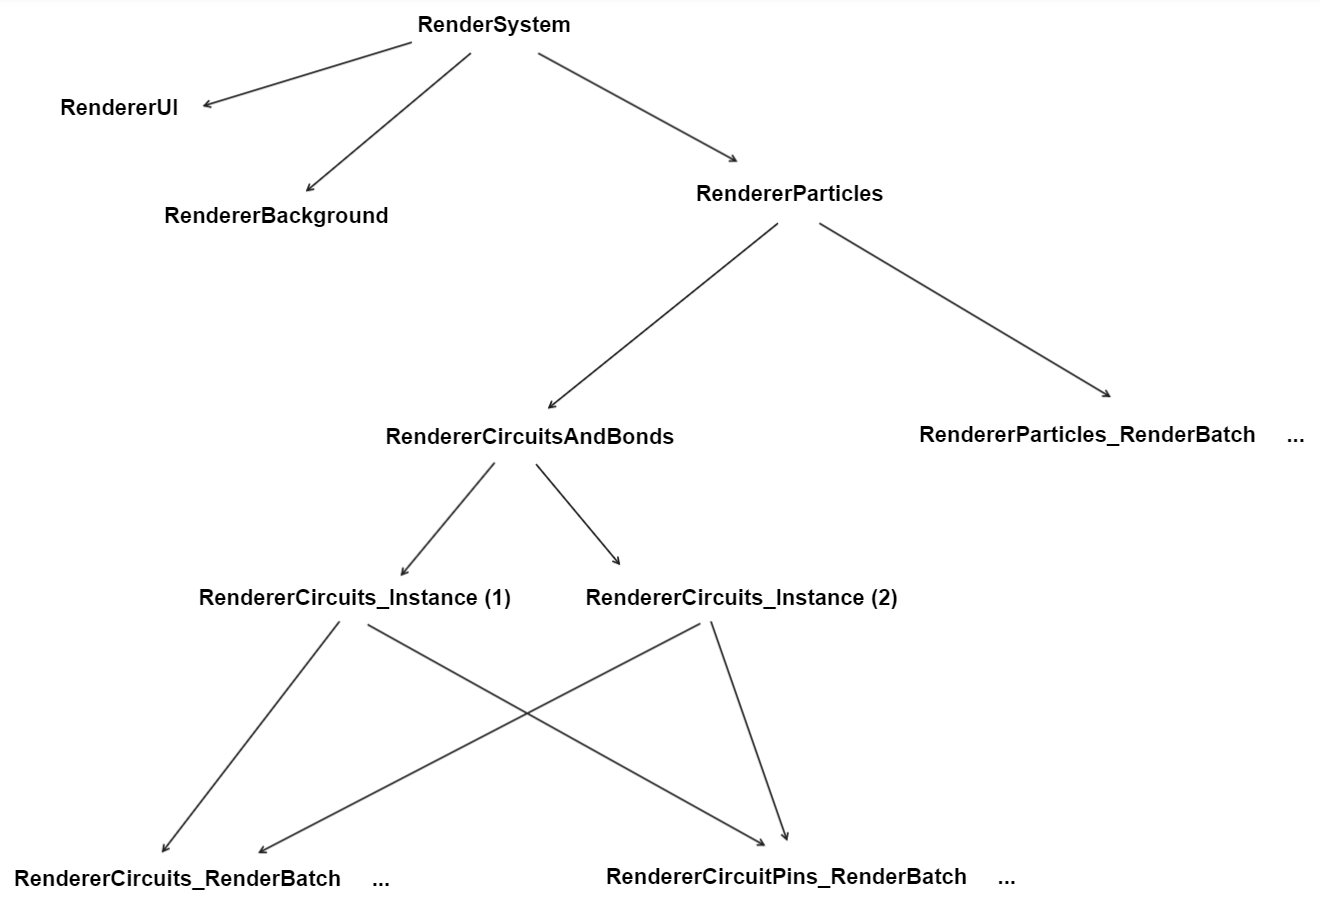
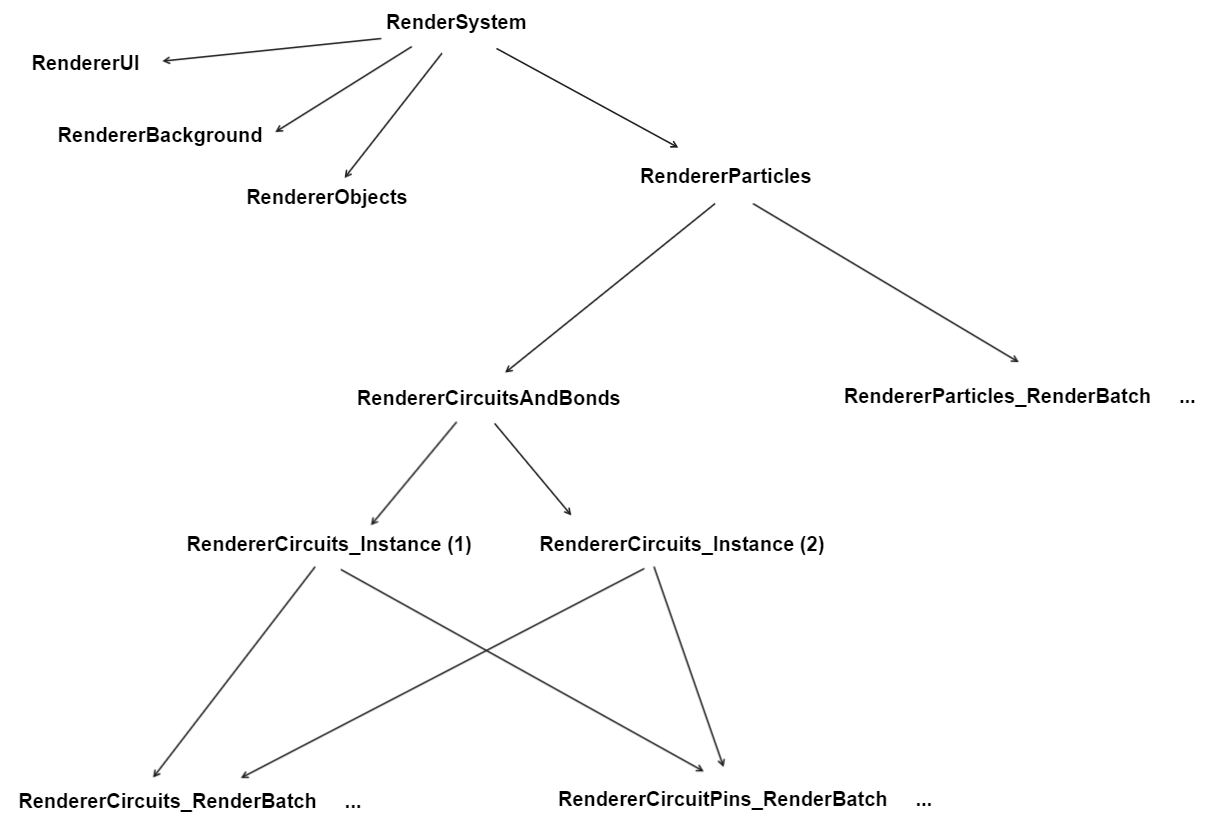
Added Model Reference and Render System pages about objects to documentation

diff --git a/AmoebotSim 2.0/Assets/Code/Simulator/Objects/IParticleObject.cs b/AmoebotSim 2.0/Assets/Code/Simulator/Objects/IParticleObject.cs
@@ -2,53 +2,58 @@ using System.Collections;
 using System.Collections.Generic;
 using UnityEngine;
 
-/// <summary>
-/// Represents an object in the particle system that can
-/// be detected and moved around by the particles.
-/// </summary>
-public interface IParticleObject
+namespace AS2.Sim
 {
+
     /// <summary>
-    /// The object's identifier. Can be unique to
-    /// distinguish all objects from each other or
-    /// specify different types or groups of objects.
+    /// Represents an object in the particle system that can
+    /// be detected and moved around by the particles.
     /// </summary>
-    int Identifier
+    public interface IParticleObject
     {
-        get;
+        /// <summary>
+        /// The object's identifier. Can be unique to
+        /// distinguish all objects from each other or
+        /// specify different types or groups of objects.
+        /// </summary>
+        int Identifier
+        {
+            get;
+        }
+
+        /// <summary>
+        /// Gives the object a new color. If multiple
+        /// particles set the same object's color, the one
+        /// set by the last simulated particle will be used.
+        /// </summary>
+        /// <param name="color">The new color of the object.</param>
+        public abstract void SetColor(Color color);
+
+        /// <summary>
+        /// Checks whether this object is currently the anchor.
+        /// <para>
+        /// Note that this information is already available in
+        /// the same round in which the object was made the
+        /// anchor (unlike, e.g., particle attributes). This
+        /// depends on the order in which the particles are
+        /// activated, which the particles can neither control
+        /// nor find out about.
+        /// </para>
+        /// </summary>
+        /// <returns><c>true</c> if and only if the object is
+        /// the system's anchor.</returns>
+        public abstract bool IsAnchor();
+
+        /// <summary>
+        /// Turns this object into the system's anchor.
+        /// </summary>
+        public abstract void MakeAnchor();
+
+        /// <summary>
+        /// Triggers this object to release all bonds to
+        /// other objects.
+        /// </summary>
+        public abstract void ReleaseBonds();
     }
 
-    /// <summary>
-    /// Gives the object a new color. If multiple
-    /// particles set the same object's color, the one
-    /// set by the last simulated particle will be used.
-    /// </summary>
-    /// <param name="color">The new color of the object.</param>
-    public abstract void SetColor(Color color);
-
-    /// <summary>
-    /// Checks whether this object is currently the anchor.
-    /// <para>
-    /// Note that this information is already available in
-    /// the same round in which the object was made the
-    /// anchor (unlike, e.g., particle attributes). This
-    /// depends on the order in which the particles are
-    /// activated, which the particles can neither control
-    /// nor find out about.
-    /// </para>
-    /// </summary>
-    /// <returns><c>true</c> if and only if the object is
-    /// the system's anchor.</returns>
-    public abstract bool IsAnchor();
-
-    /// <summary>
-    /// Turns this object into the system's anchor.
-    /// </summary>
-    public abstract void MakeAnchor();
-
-    /// <summary>
-    /// Triggers this object to release all bonds to
-    /// other objects.
-    /// </summary>
-    public abstract void ReleaseBonds();
-}
+} // namespace AS2.Sim

diff --git a/AmoebotSim 2.0/Assets/Code/Simulator/Objects/ParticleObject.cs b/AmoebotSim 2.0/Assets/Code/Simulator/Objects/ParticleObject.cs
@@ -430,6 +430,23 @@ namespace AS2.Sim
             return isNbr;
         }
 
+        /// <summary>
+        /// Removes the given local grid position from the object,
+        /// if the object remains non-empty.
+        /// <para>
+        /// Note that the object's origin position will change if
+        /// the node at the origin is removed.
+        /// </para>
+        /// </summary>
+        /// <param name="pos">The occupied grid position to remove from
+        /// the object, relative to the object's origin.</param>
+        /// <returns><c>true</c> if and only if the position was
+        /// successfully removed from the object.</returns>
+        public bool RemovePositionRel(Vector2Int pos)
+        {
+            return RemovePosition(pos + position);
+        }
+
         public bool RemovePosition(Vector2Int pos)
         {
             // Convert to relative position

diff --git a/Documentation/model_ref/objects.md b/Documentation/model_ref/objects.md
@@ -1,0 +1,103 @@
+# Model Reference: Objects
+
+![Objects](~/images/objects.png "Objects highlighted in gray. Note that the blue object is not directly connected to any particles")
+
+A simple extension of our Amoebot model is the addition of passive *objects*.
+An object is a structure that occupies a connected set of grid nodes.
+Bonds allow particles to connect to objects and move them around using the joint movement mechanism.
+Objects also form bonds to each other.
+A particle can trigger a neighboring object to release all its bonds to other objects.
+This is the only way to remove bonds between objects.
+
+Every object has an integer ID that can be read by the particles, but cannot be changed.
+This value does not have to be unique among the objects in the system.
+It is meant to be a way of classifying different types of objects.
+Each object also has a color that can be changed but not read by the particles.
+The color is supposed to provide some visual information on the state of an algorithm, e.g., particles can change the color of an object to indicate that it has been moved to the desired location.
+
+We still require that the particle system remains connected at all times, regardless of whether or not there are objects present in the system.
+Additionally, every object must stay connected to the particle system through bonds, either directly or indirectly, at all times.
+
+
+
+## Implementation
+
+To use objects in your algorithms, you need to know how to place objects during initialization and how to make particles interact with the objects.
+
+
+### Initialization
+
+To create a new object in the `Generate(...)` method of your [`InitializationMethod`][1] subclass, simply call the [`CreateObject(Vector2Int pos, int identifier)`][2] method.
+The method returns an instance of the [`ParticleObject`][3] class representing a new object that only occupies the grid position `pos`.
+You can add positions to the object by calling the [`AddPosition(Vector2Int pos)`][4] method on it.
+Once you are finished adding positions, call the [`AddObjectToSystem(ParticleObject obj)`][5] method to register the object in the system.
+This will create a *copy* of the given object `obj`, meaning that modifying `obj` after calling this method will *not* modify the registered object.
+However, you can move your object to another location using the [`MovePosition(Vector2Int offset)`][6] or [`MoveTo(Vector2Int newPos)`][7] method, and then add another copy of the object to the system.
+This makes it easy to add many objects of the same shape in different locations.
+
+Example:
+```csharp
+public void Generate()
+{
+    // Create a new object at the origin
+    ParticleObject o = CreateObject(Vector2Int.zero);
+    // Add six occupied positions around the center
+    o.AddPosition(new Vector2Int(1, 0));
+    o.AddPosition(new Vector2Int(0, 1));
+    o.AddPosition(new Vector2Int(-1, 1));
+    o.AddPosition(new Vector2Int(-1, 0));
+    o.AddPosition(new Vector2Int(0, -1));
+    o.AddPosition(new Vector2Int(1, -1));
+    // Add the object to the system
+    AddObjectToSystem(o);
+
+    // Create a copy with an offset and a different color
+    o.MovePosition(new Vector2Int(4, 1));
+    o.Color = Color.blue;
+    AddObjectToSystem(obj);
+
+    // Create a second copy at a specific location and with
+    // different shape, color and identifier
+    o.MoveTo(new Vector2Int(-4, 0));
+    o.AddPositionRel(new Vector2Int(1, 1));
+    o.AddPositionRel(new Vector2Int(-1, -1));
+    o.Color = Color.red;
+    o.Identifier = 42;
+    AddObjectToSystem(obj);
+}
+```
+The above code generates the following objects:
+![Object initialization example](~/images/objects_init.png "Three objects placed at different locations in the system by the code above")
+
+
+### Particle Interaction
+
+Once there are objects in the system, particles can interact with them.
+The simplest interaction is checking whether there is an object occupying some neighboring node.
+Just like the [`HasNeighborAt(Direction d, bool head)`][8] method checks for a neighboring particle, the [`HasObjectAt(Direction d, bool head)`][9] method checks for a neighboring object in direction `d`, relative to the particle's head if `head` is true and the particle is expanded.
+Similarly, the [`GetObjectAt(Direction d, bool head)`][10] method returns a reference to the object at the given neighbor position.
+
+Having found an object, a particle can read its identifier and change its color using the corresponding members.
+To turn an object into the system's anchor, the particle can either call [`MakeAnchor()`][11] on the object reference itself, or use [`MakeObjectAnchor(Direction d, bool head)`][12] to specify the neighbor object by its location.
+Following the same pattern, a particle can make a neighboring object release all bonds to other objects by calling [`ReleaseBonds()`][13] on the reference or calling [`TriggerObjectBondRelease(Direction d, bool head)`][14].
+Releasing an object's bonds works just like releasing individual bonds of a particle.
+The bonds will be removed for the current movement phase and reestablished at the beginning of the next round.
+It is not possible to specify which bonds of an object are released; it will always release all bonds to all connected objects.
+
+
+
+
+[1]: xref:AS2.InitializationMethod
+[2]: xref:AS2.InitializationMethod.CreateObject(Vector2Int,System.Int32)
+[3]: xref:AS2.Sim.ParticleObject
+[4]: xref:AS2.Sim.ParticleObject.AddPosition(Vector2Int)
+[5]: xref:AS2.InitializationMethod.AddObjectToSystem(ParticleObject)
+[6]: xref:AS2.Sim.ParticleObject.MovePosition(Vector2Int)
+[7]: xref:AS2.Sim.ParticleObject.MoveTo(Vector2Int)
+[8]: xref:AS2.Sim.ParticleAlgorithm.HasNeighborAt(AS2.Direction,System.Boolean)
+[9]: xref:AS2.Sim.ParticleAlgorithm.HasObjectAt(AS2.Direction,System.Boolean)
+[10]: xref:AS2.Sim.ParticleAlgorithm.GetObjectAt(AS2.Direction,System.Boolean)
+[11]: xref:AS2.Sim.IParticleObject.MakeAnchor
+[12]: xref:AS2.Sim.ParticleAlgorithm.MakeObjectAnchor(AS2.Direction,System.Boolean)
+[13]: xref:AS2.Sim.IParticleObject.ReleaseBonds
+[14]: xref:AS2.Sim.ParticleAlgorithm.TriggerObjectBondRelease(AS2.Direction,System.Boolean)

diff --git a/Documentation/dev_guide/render/home.md b/Documentation/dev_guide/render/home.md
@@ -1,6 +1,6 @@
 # Dev Guide: The Render System
 
-The render system renders the background grid, the particles, their circuits and bonds, and some additional UI overlays to the screen.
+The render system renders the background grid, the particles, their circuits and bonds, the objects and some additional UI overlays to the screen.
 This must be done efficiently to keep the application responsive even while simulating large particle systems.
 Achieving this requires some effort and the render system's code is therefore quite complex.
 This part of the Developer Guide gives an overview of the render system's structure, roughly explains the most important high-level concepts and points to the places where the visualization could be changed or extended.
@@ -17,7 +17,7 @@ The individual parts of the system are explained in more detail on their own pag
 The [`RenderSystem`][1] class is the main container of the render system and forms the root of a tree structure.
 One instance of this class is created by the application's main class, [`AmoebotSimulator`][2], when the application starts.
 In every `Update` call, the [`AmoebotSimulator`][2] calls the [`RenderSystem`][1]'s [`Render()`][3] method, which triggers a cascade of similar method calls through the entire render system hierarchy (represented by the arrows in the image above).
-The [`RenderSystem`][1] creates and manages one instance of each of the three render classes, the [`RendererUI`][4], [`RendererBackground`][5] and [`RendererParticles`][6].
+The [`RenderSystem`][1] creates and manages one instance of each of the four render classes, the [`RendererUI`][4], [`RendererBackground`][5], [`RendererObjects`][7] and [`RendererParticles`][6].
 These classes receive the [`Render()`][3] call of the [`RenderSystem`][1] and handle the rendering or pass the call to subordinate classes.
 
 Apart from that, the [`RenderSystem`][1] class contains most of the render parameters and constants.
@@ -28,7 +28,7 @@ The class stores most of these parameters as public static fields, which makes t
 Almost all of the render system's classes use these values to influence the render result.
 
 The next page explains the [basics of rendering in Unity](rendering_basics.md).
-The concepts explained on that page are relevant to all of the following pages, which explain the three render classes in more detail.
+The concepts explained on that page are relevant to all of the following pages, which explain the four render classes in more detail.
 
 
 
@@ -38,3 +38,4 @@ The concepts explained on that page are relevant to all of the following pages, 
 [4]: xref:AS2.Visuals.RendererUI
 [5]: xref:AS2.Visuals.RendererBackground
 [6]: xref:AS2.Visuals.RendererParticles
+[7]: xref:AS2.Visuals.RendererObjects

diff --git a/Documentation/dev_guide/render/object_renderer.md b/Documentation/dev_guide/render/object_renderer.md
@@ -1,0 +1,25 @@
+# Dev Guide: Object Renderer
+
+The [`RendererObjects`][1] class is responsible for rendering the [objects](~/model_ref/objects.md) in the system.
+For this, every object contains an instance of the [`ObjectGraphicsAdapter`][2] class which represents the object in the render system.
+This instance has to be registered in the [`RendererObjects`][1] in order to be displayed.
+
+Once an object is registered, the [`ObjectGraphicsAdapter`][2] generates a mesh for the object and updates it every time the object is changed.
+The mesh consists of four triangles for every hexagon in the object and additional triangles between the hexagons at the borders of the object.
+These are necessary because the vertices at the borders are placed closer to their hexagon's center so that there is a gap between an object and neighboring particles or other objects.
+
+![Object mesh](~/images/object_mesh.png "The mesh generated for an object")
+
+In order to render the objects with different colors, the [`RendererObjects`][1] maintains a dictionary of material property blocks using colors as keys.
+Every time an object is registered or a registered object changes its color, a corresponding property block is created or taken from the dictionary.
+The material used to render the objects is `Resources/Materials/Base/ObjectMat.mat`.
+It is a very simple material giving the object mesh a solid color.
+
+When the [`Render`][3] method of the [`RendererObjects`][2] is called, it renders each object individually, using the TRS matrix computed by the object's [`ObjectGraphicsAdapter`][2].
+If animations are enabled, the matrix uses an interpolated position between the previous and current object position.
+
+
+
+[1]: xref:AS2.Visuals.RendererObjects
+[2]: xref:AS2.Visuals.ObjectGraphicsAdapter
+[3]: xref:AS2.Visuals.RendererObjects.Render

diff --git a/Documentation/user_guide/usage/home.md b/Documentation/user_guide/usage/home.md
@@ -4,5 +4,5 @@ These pages will teach you how to initialize and run Amoebot algorithms in the s
 To follow along, please open the simulator project in the Unity Editor.
 
 1. [Unity Editor Overview](editor.md)
-2. [Simulation Mode](sim.md)
-3. [Initialization Mode](init.md)
+2. [Initialization Mode](init.md)
+3. [Simulation Mode](sim.md)

diff --git a/Documentation/model_ref/home.md b/Documentation/model_ref/home.md
@@ -12,3 +12,4 @@ You should be familiar with these concepts in order to develop Amoebot algorithm
 5. [Pin Configurations](pin_cfgs.md)
 6. [Messages](messages.md)
 7. [Bonds and Joint Movements](bonds_jm.md)
+8. [Objects](objects.md)
